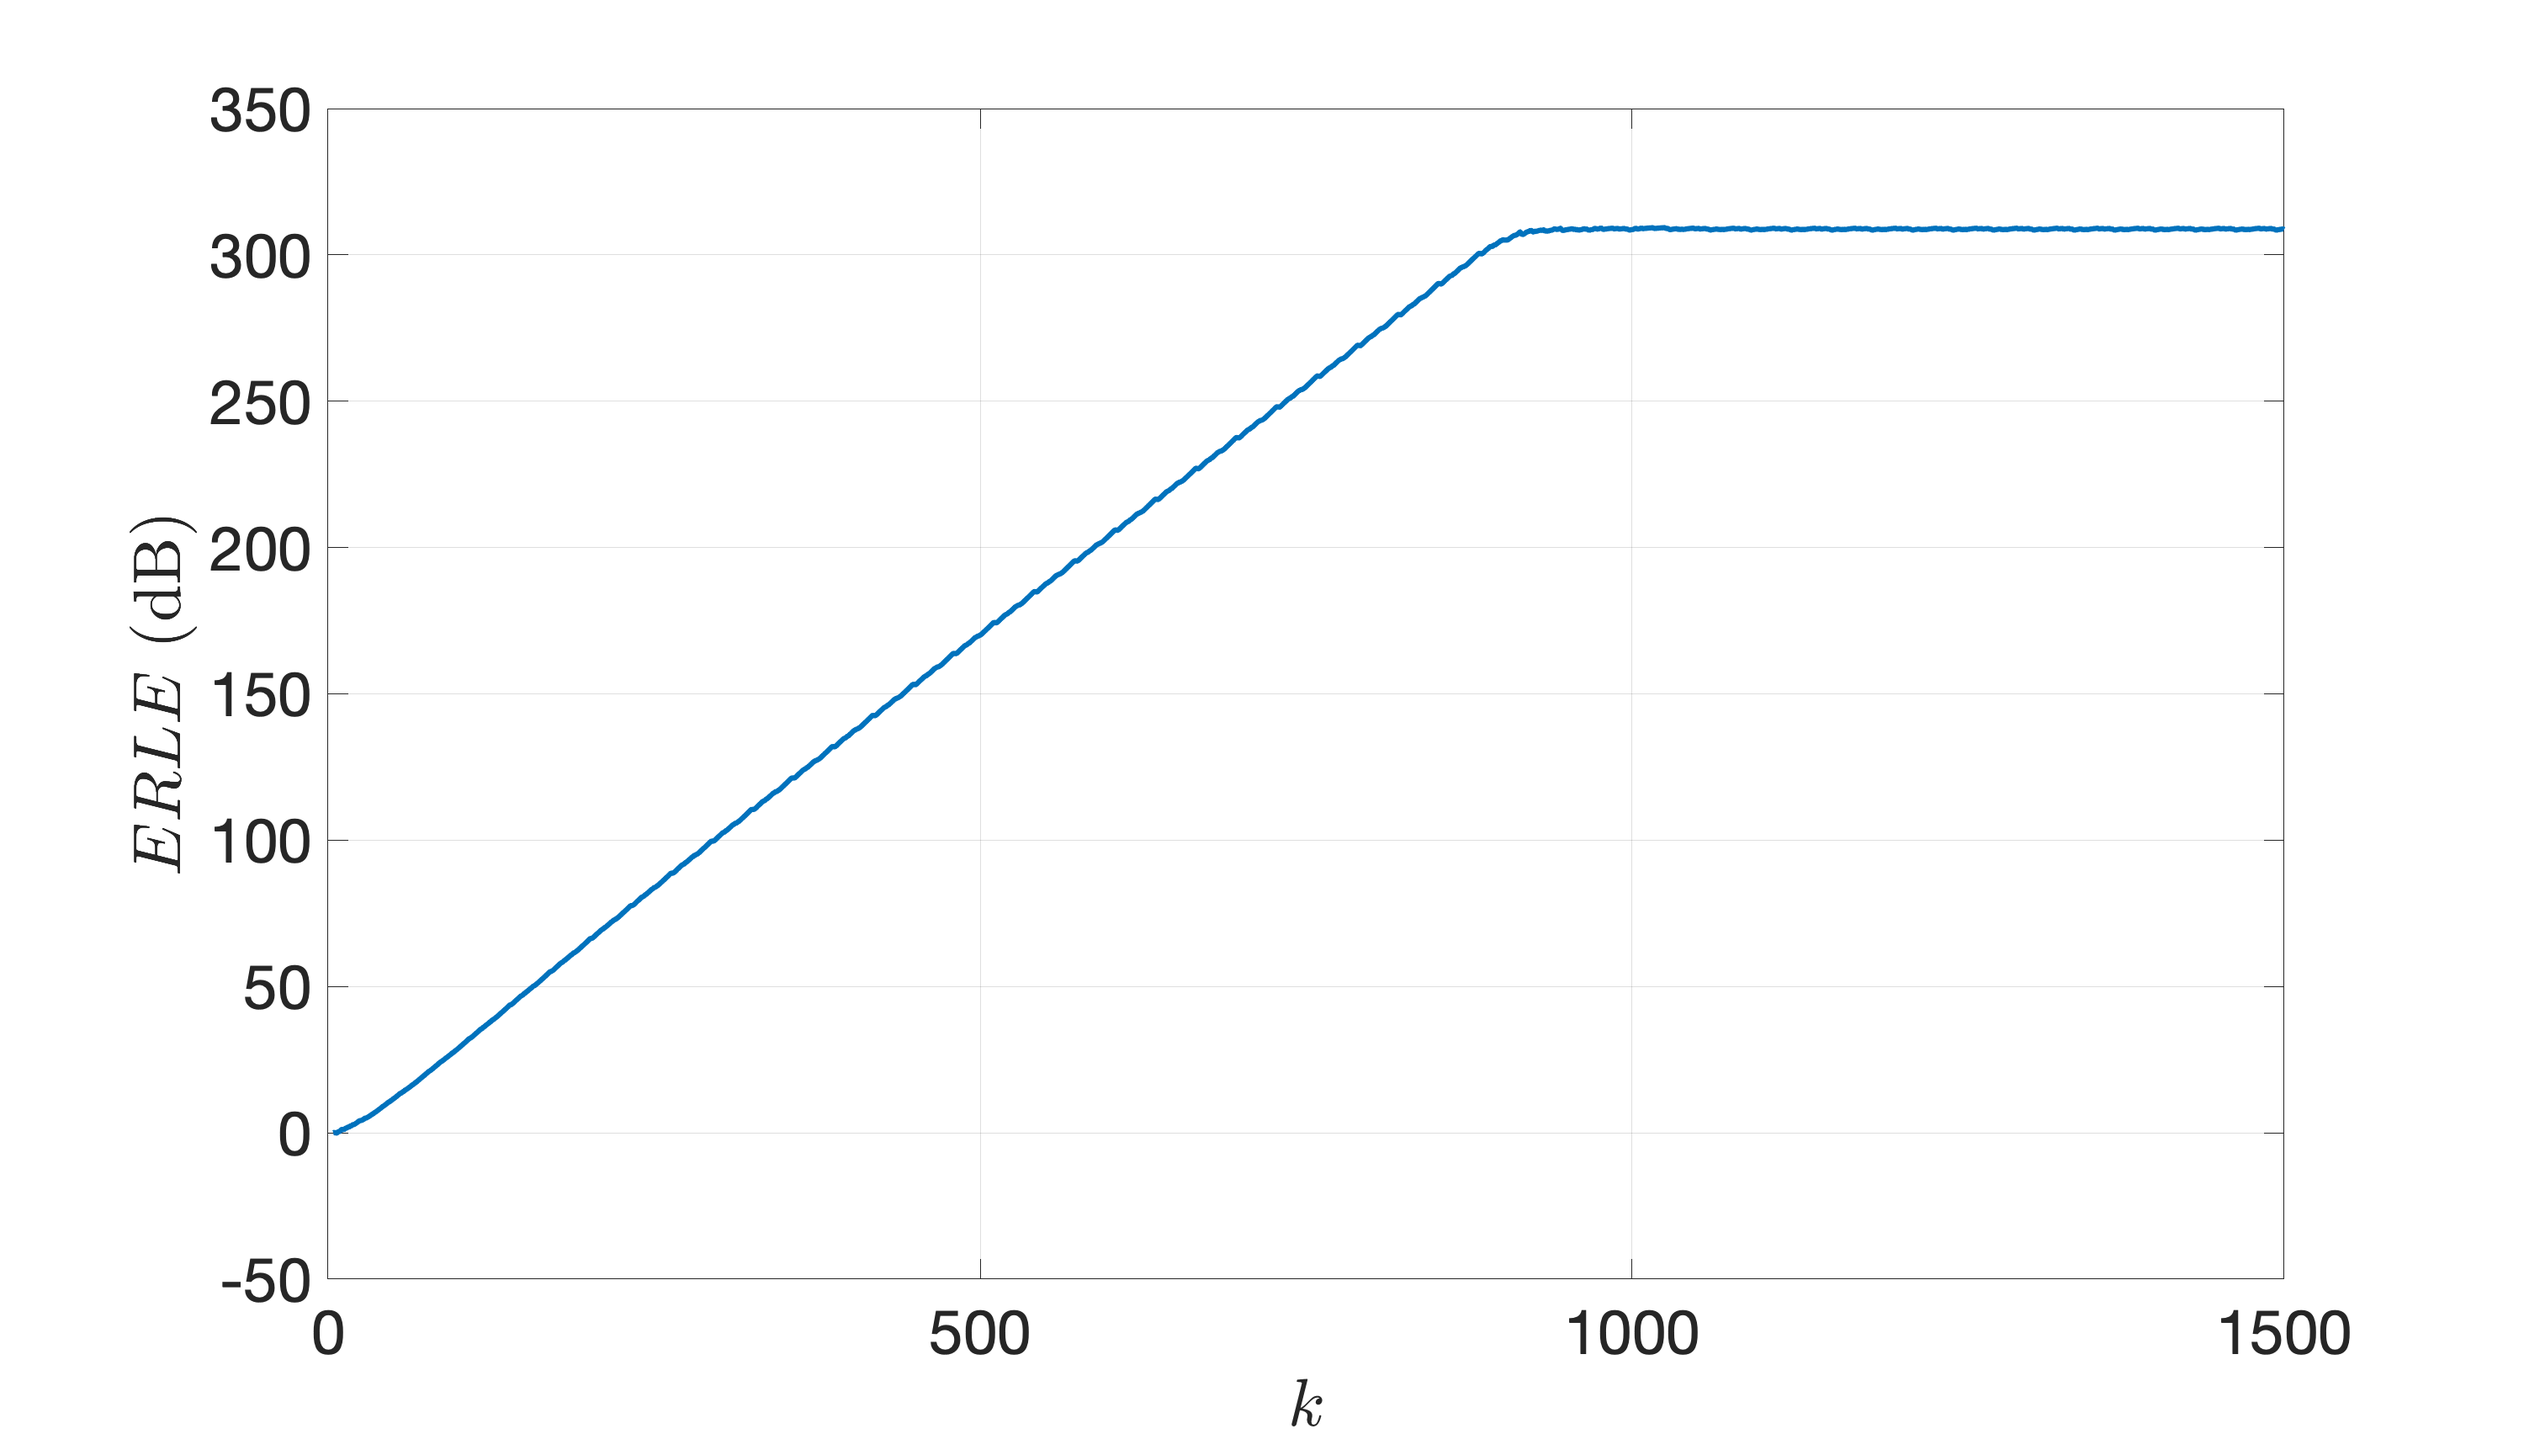
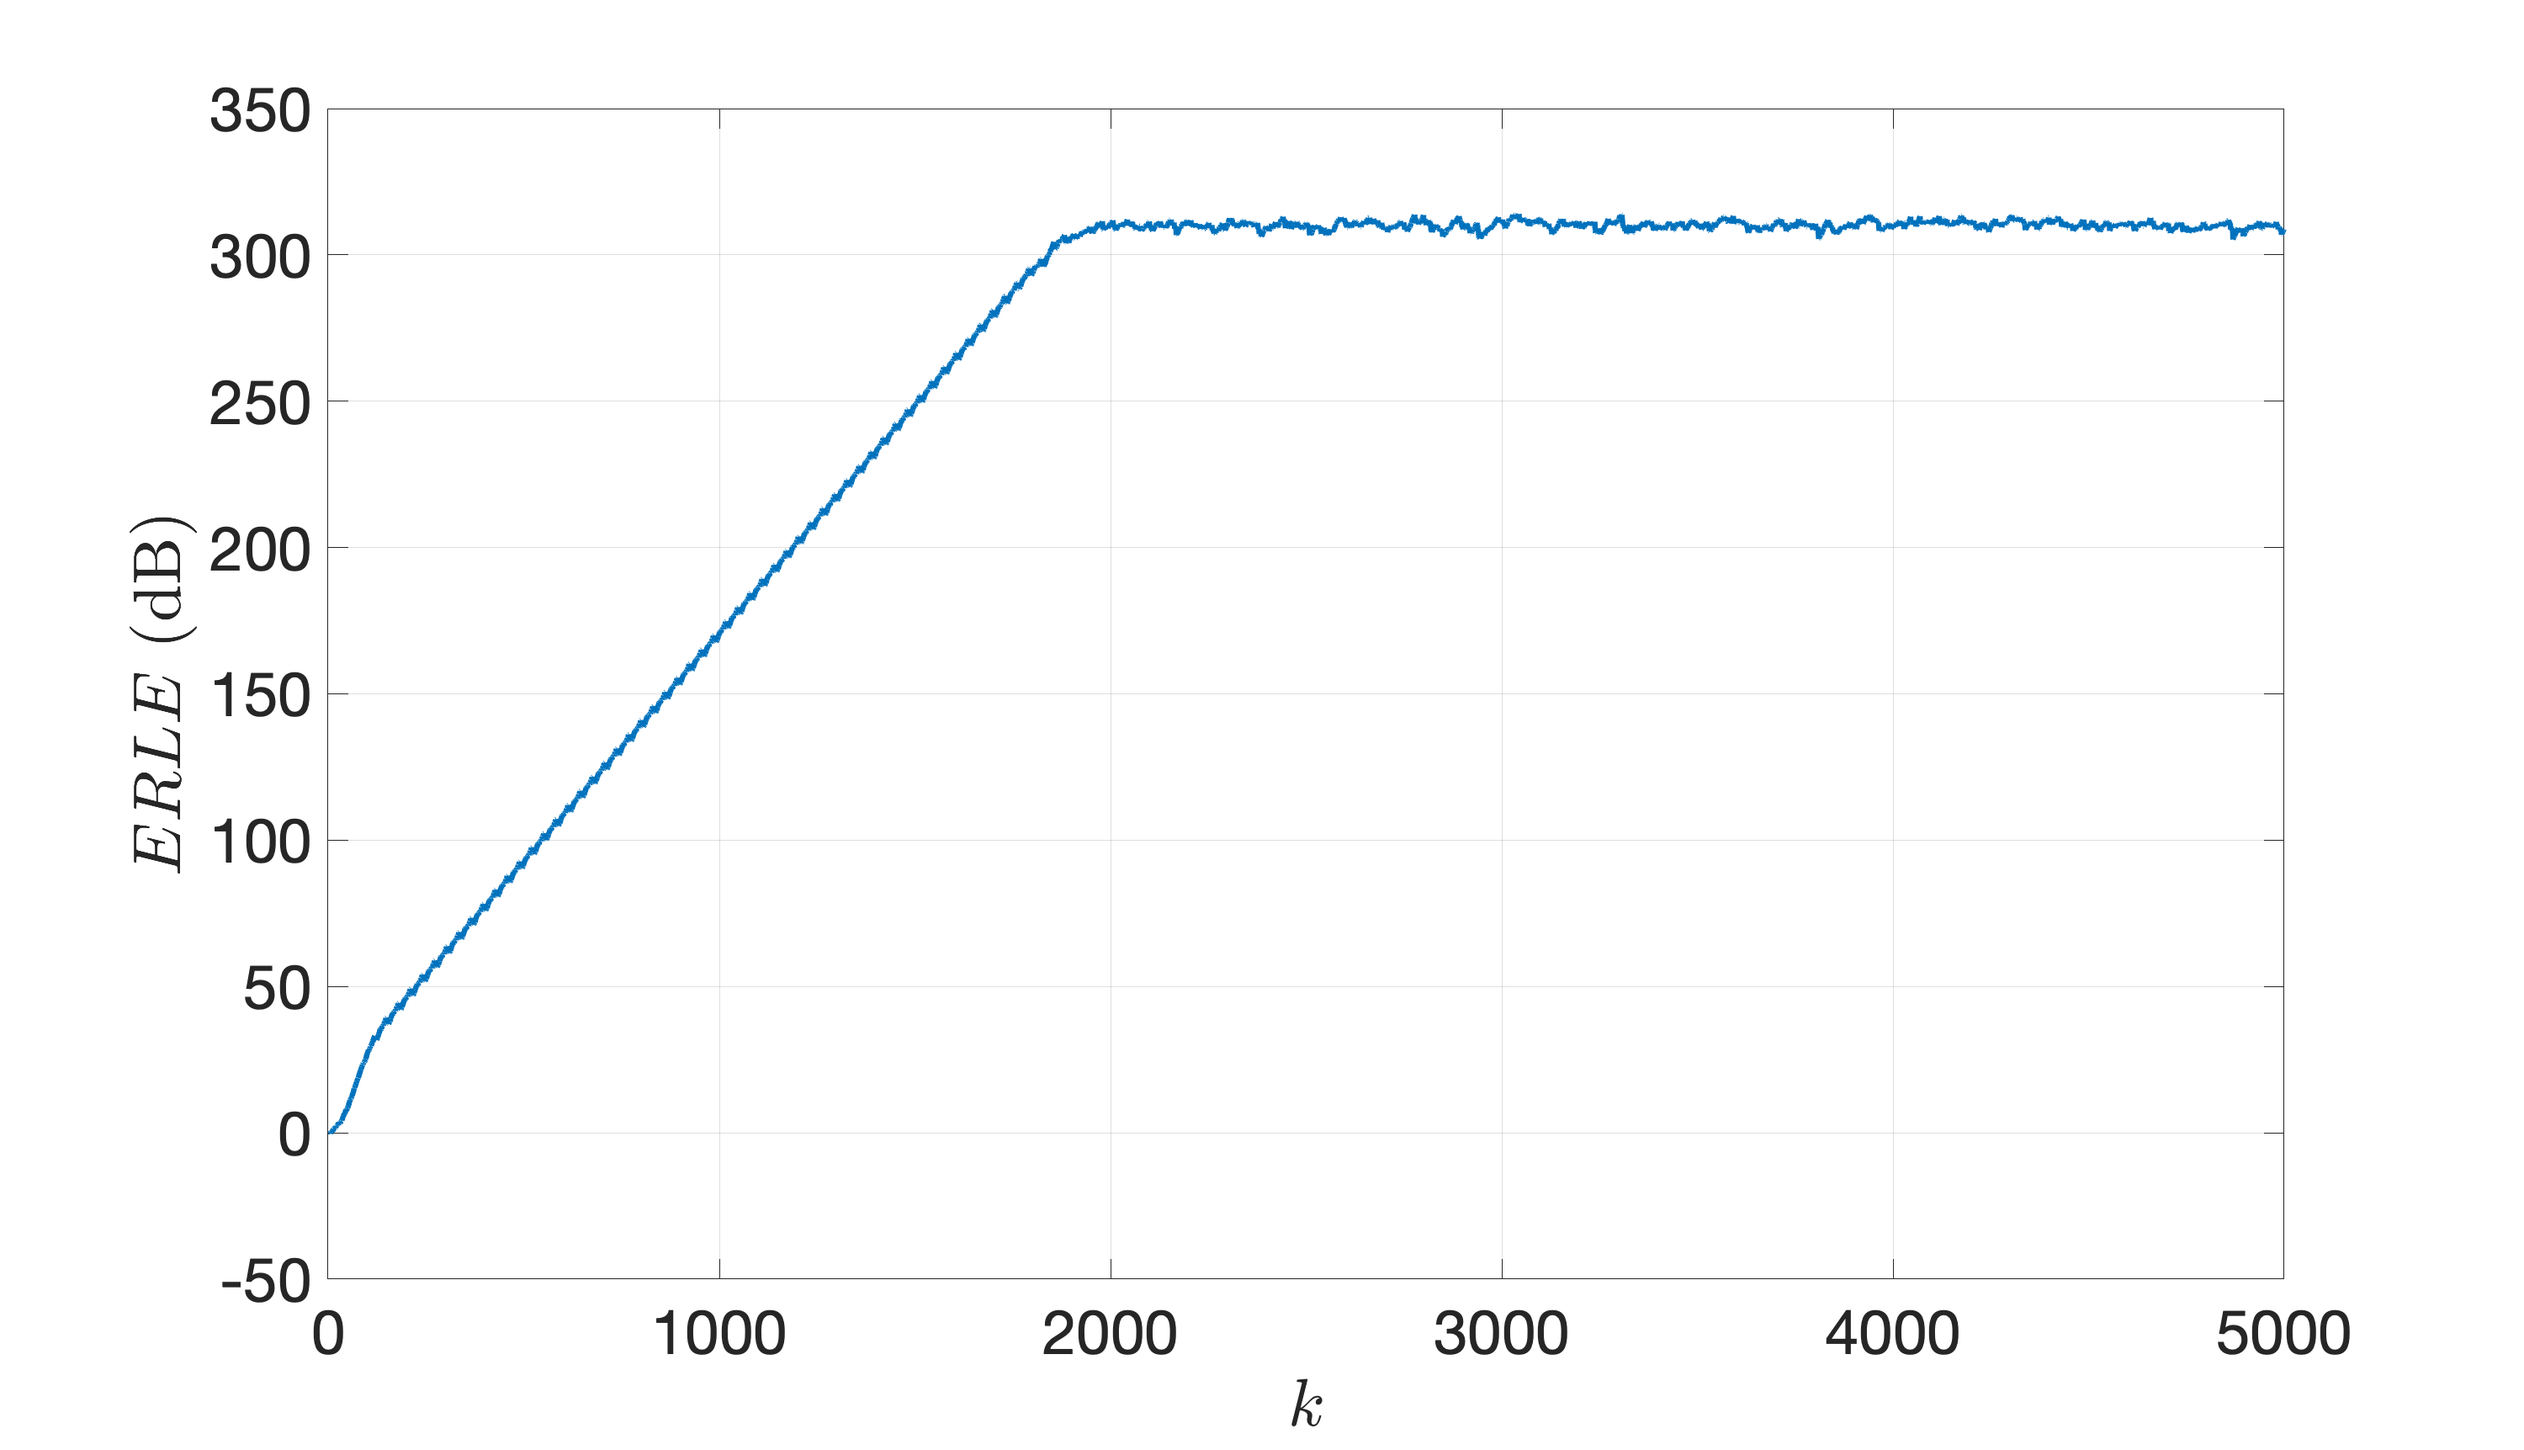
Finished lab 3

diff --git a/lab3/lab3.m b/lab3/lab3.m
@@ -75,11 +75,11 @@ close all;
 %% 5_5
 clear;
 Ts = 1; %(s)
-Tsim = 1500; % (samples)
+Tsim = 0.5e4; % (samples)
 scramblerLocal = [3 5];
 scramblerRemote = [5 7];
 coefHybrid = [0 0.2 1 0.3 -0.4 -0.1 0.1 -0.05 -0.02 -0.01];
-c_ik_init = [0 0 0 0 0];
+c_ik_init = zeros(26,1);
 mu = 0.02;
 alpha = 0.9;
 
@@ -100,7 +100,7 @@ hold off;
 close all;
 
 figure('units','normalized','outerposition',[0 0 1 1]);
-plot(c_ik.Time,c_ik.Data,'LineWidth',3);
+plot(c_ik.Time,c_ik.Data(:,1:5),'LineWidth',3);
 hold on;
 ylabel('$c_i$','Interpreter','latex');
 xlabel('$k$','Interpreter','latex');
@@ -111,6 +111,25 @@ ax = gca;
 ax.XGrid = 'on';
 ax.YGrid = 'on'; 
 saveas(gcf,"./data/5_5/c_ik.png");
+hold off;
+close all;
+
+figure('units','normalized','outerposition',[0 0 1 1]);
+plot(c_ik.Time,c_ik.Data(:,6:end),'LineWidth',3);
+hold on;
+ylabel('$c_i$','Interpreter','latex');
+xlabel('$k$','Interpreter','latex');
+% lg = cell(16,1);
+% for i = 1:22
+%     lg{i,1} = sprintf("$c_{%02d}$",i+4);
+% end
+% legend(lg,...
+%     'Interpreter','latex');
+set(gca,'FontSize',35);
+ax = gca;
+ax.XGrid = 'on';
+ax.YGrid = 'on'; 
+saveas(gcf,"./data/5_5/c_ik_0.png");
 hold off;
 close all;
 
